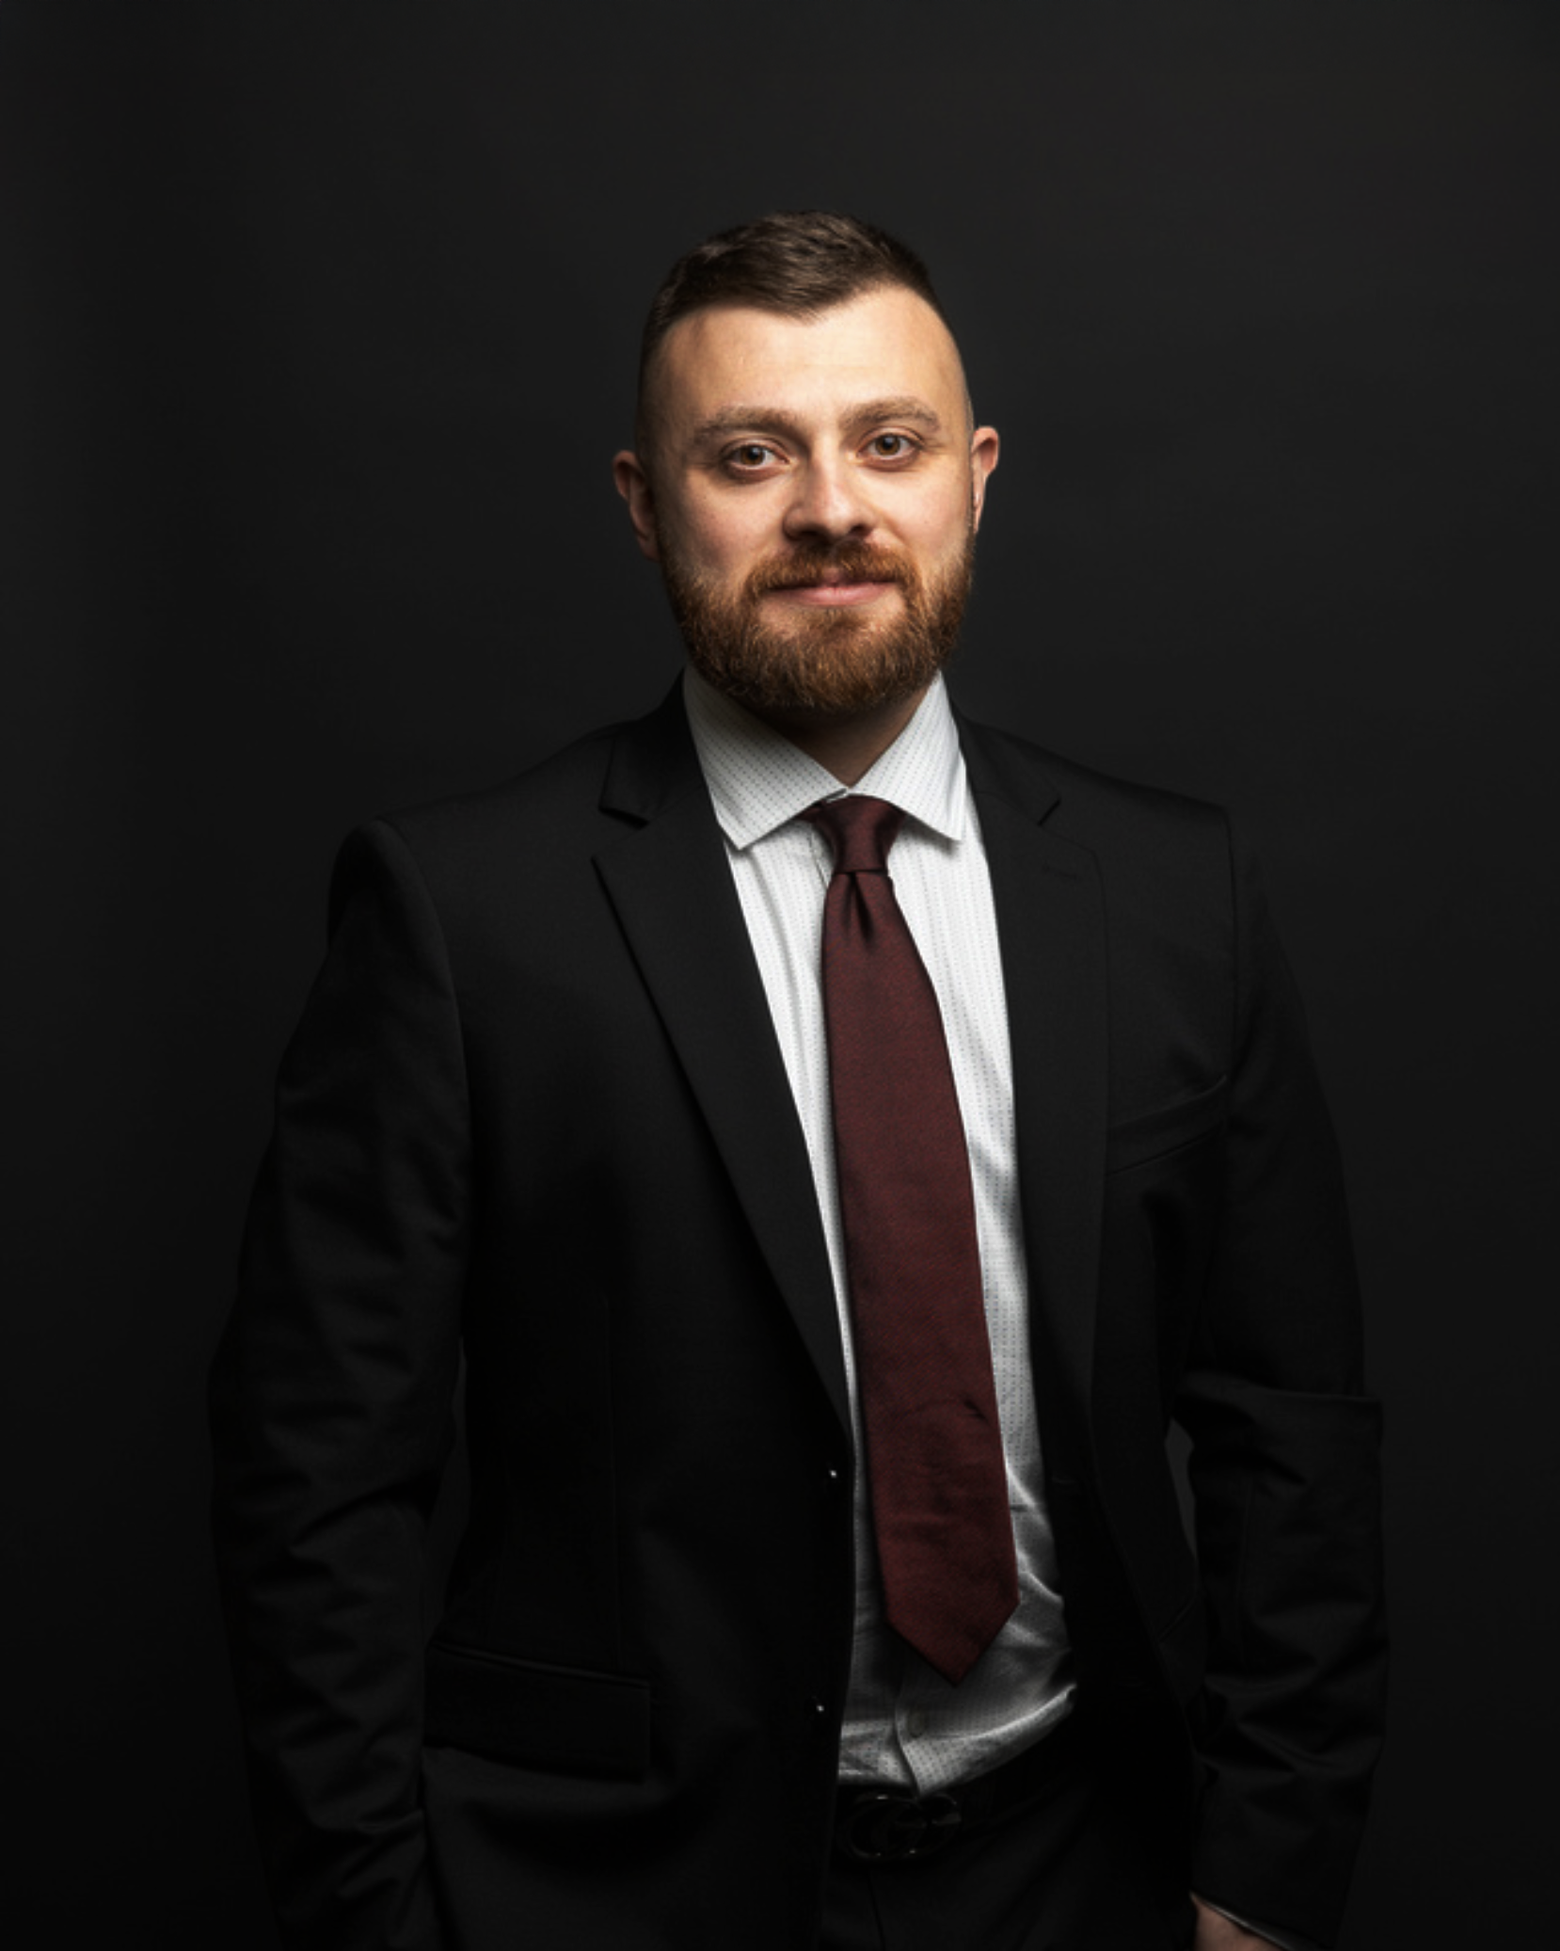
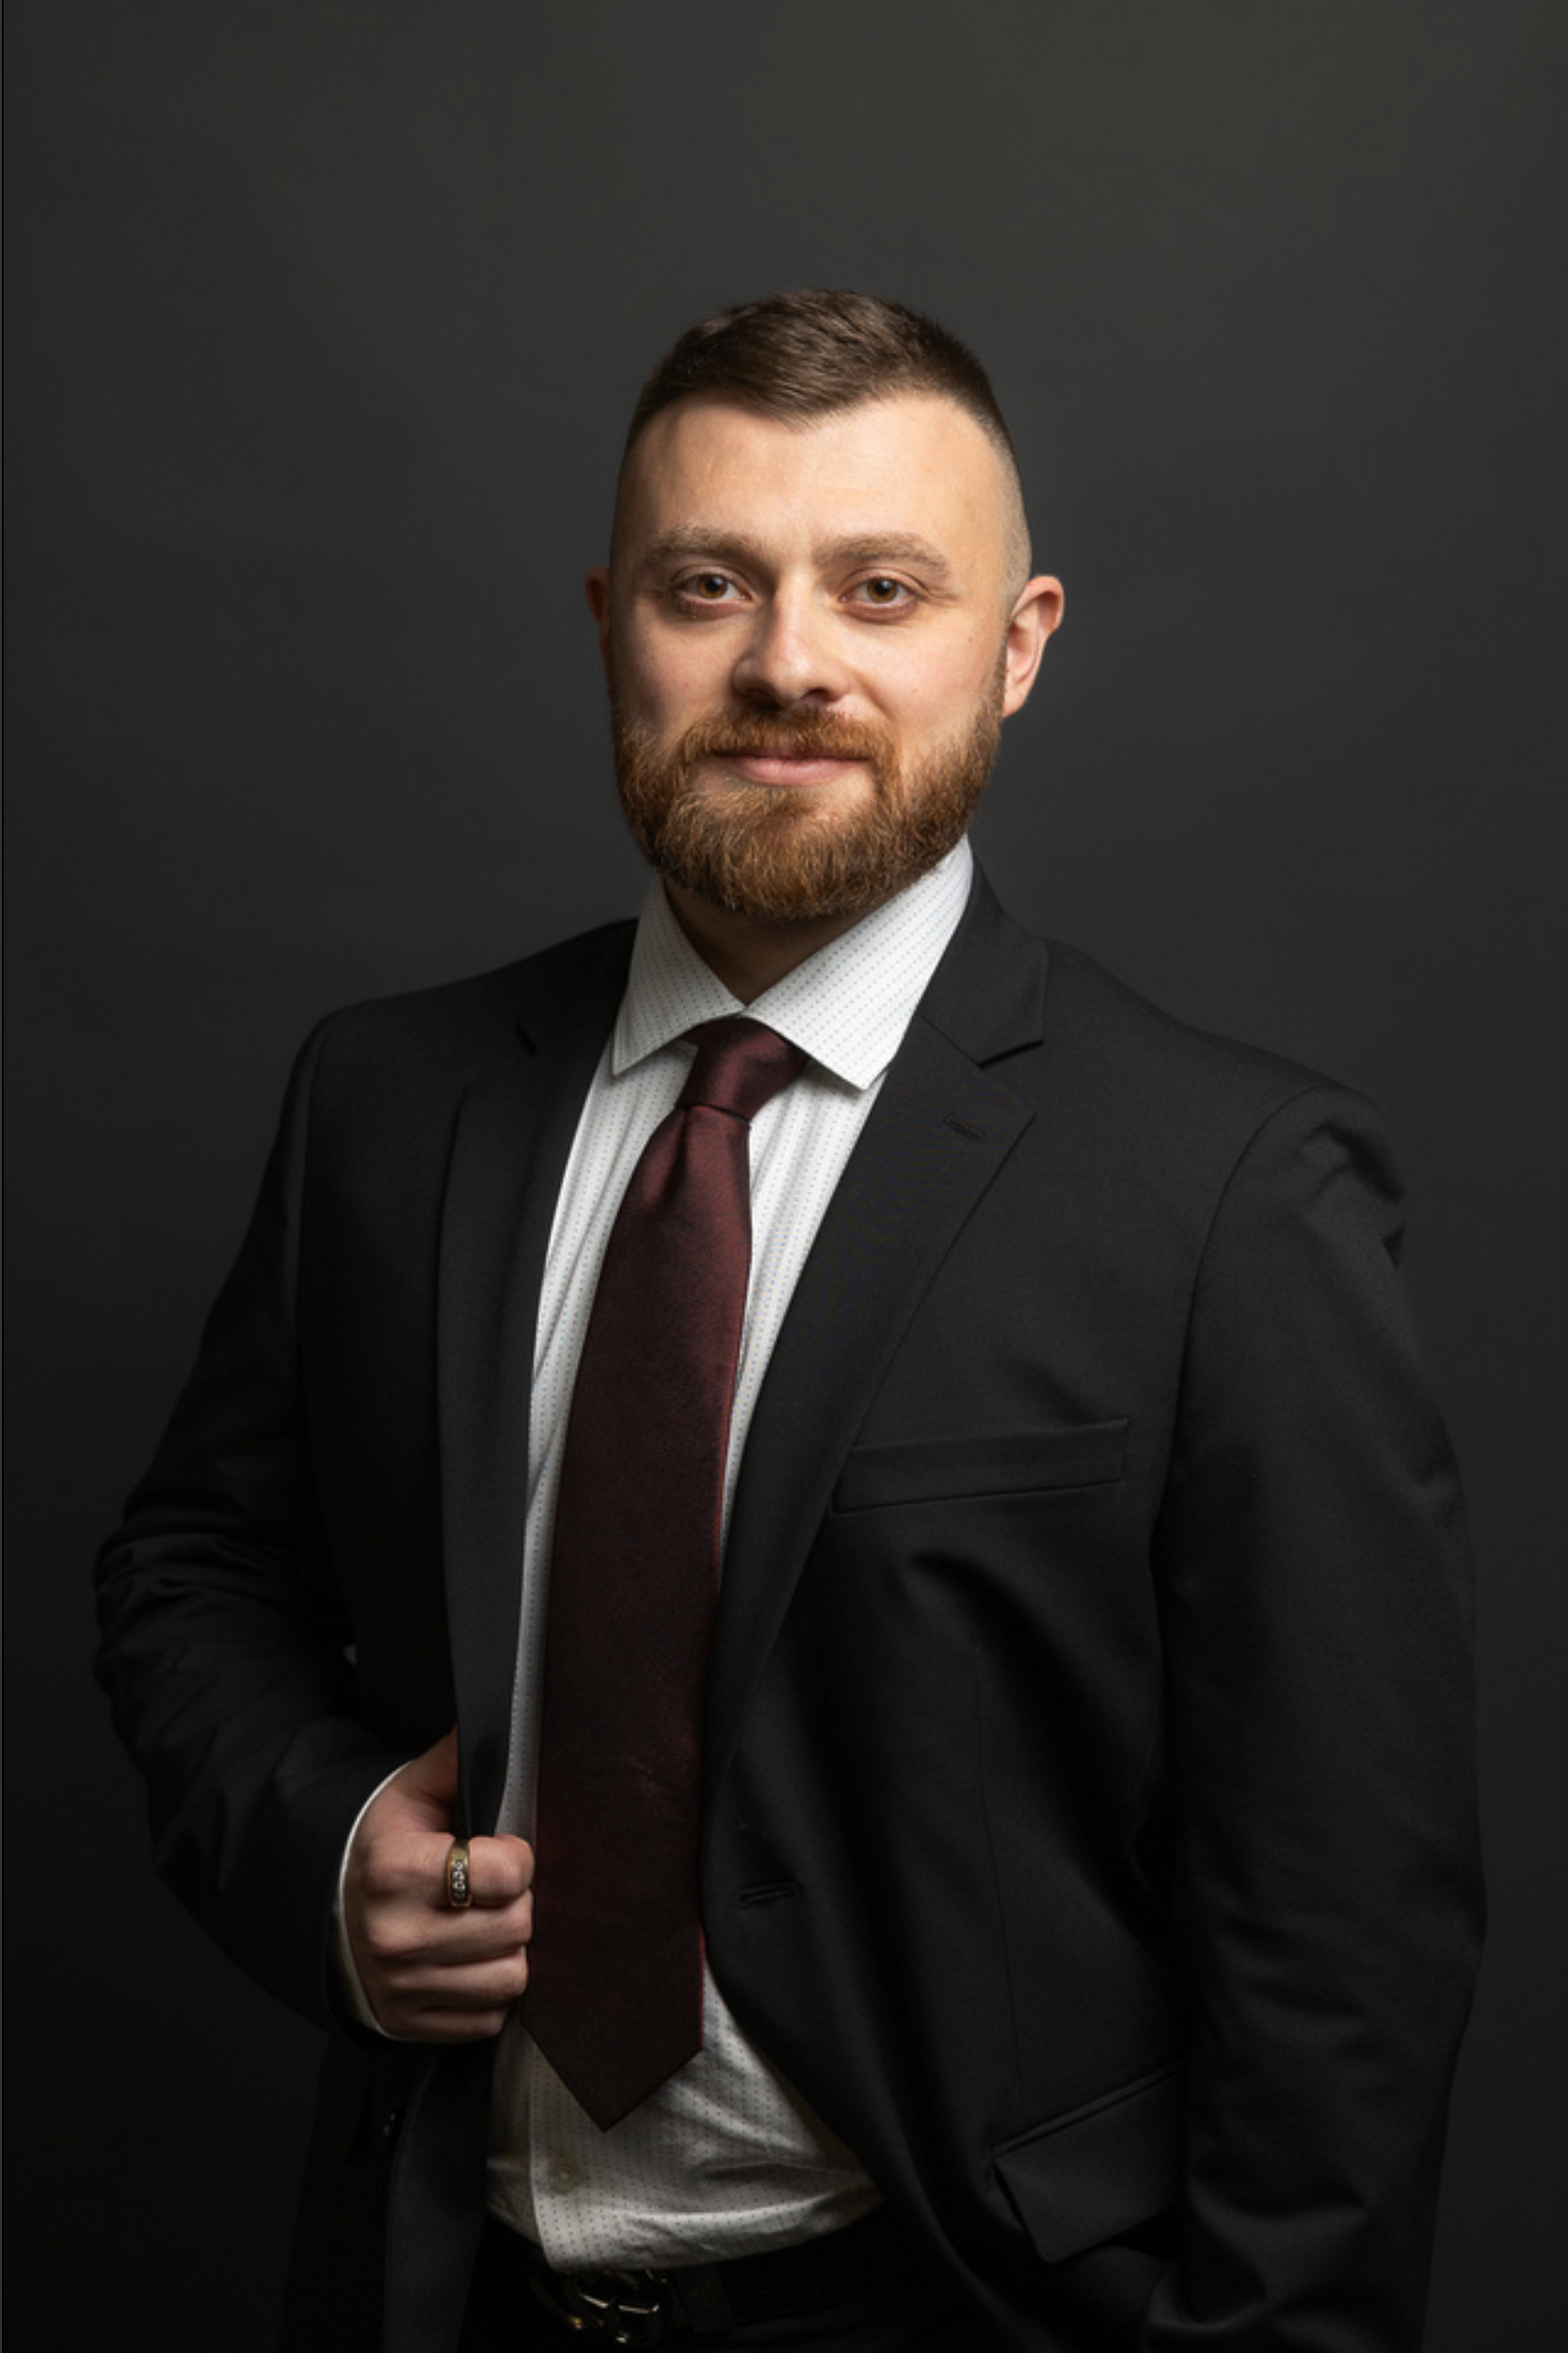
.

diff --git a/app/page.tsx b/app/page.tsx
@@ -81,7 +81,7 @@ export default function HomePage() {
         dangerouslySetInnerHTML={{ __html: JSON.stringify(jsonLdWebPage) }}
       />
 
-      <div className='max-w-2xl w-full font-mono mb-8'>
+      <div className='max-w-3xl w-full font-mono mb-8'>
         <div className='flex flex-col md:flex-row'>
           <motion.div
             className='mb-8 md:mb-0 md:mr-8 flex items-center justify-center'
@@ -89,41 +89,41 @@ export default function HomePage() {
             <Image
               src='/assets/td.png'
               alt='Tariel Davidashvili'
-              width={250}
-              height={250}
+              width={300}
+              height={300}
               priority
-              className='rounded-3xl'
-              style={{ width: 'auto', height: 'auto', maxWidth: 250, maxHeight: 250 }}
+              className='rounded-3xl shadow-xl shadow-accent/30'
+              style={{ width: 'auto', height: 'auto', maxWidth: 300, maxHeight: 300 }}
             />
           </motion.div>
 
           <div className='flex-1 flex flex-col md:min-h-62.5'>
             <div className='space-y-2'>
               <motion.h1
-                className='text-3xl font-bold text-foreground border-b border-border pb-2 mb-4'
+                className='text-3xl font-bold text-foreground border-b border-border pb-2 mb-4 text-end'
                 variants={itemVariants}>
                 Tariel Davidashvili
               </motion.h1>
 
               <motion.p
-                className='text-muted-foreground leading-relaxed text-xs'
+                className='text-muted-foreground leading-relaxed text-xs text-end'
                 variants={itemVariants}>
                 Legally inclined. Technically curious.
               </motion.p>
               <motion.p
-                className='text-muted-foreground leading-relaxed text-xs'
+                className='text-muted-foreground leading-relaxed text-xs text-end'
                 variants={itemVariants}>
                 JD Candidate · Bora Laskin Faculty of Law
               </motion.p>
               <motion.p
-                className='text-muted-foreground leading-relaxed text-xs'
+                className='text-muted-foreground leading-relaxed text-xs text-end'
                 variants={itemVariants}>
                 Lakehead University
               </motion.p>
             </div>
 
             <motion.div className='mt-auto pt-4' variants={itemVariants}>
-              <div className='flex flex-wrap justify-start gap-4'>
+              <div className='flex flex-wrap justify-end gap-4'>
                 {contacts.map((contact, index) => (
                   <motion.div key={index} variants={itemVariants}>
                     <Link
